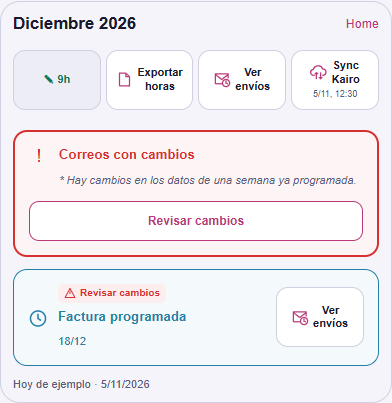
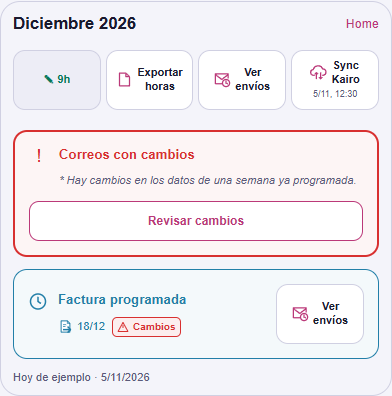
Ajustar el icono y aviso junto a la fecha de factura

diff --git a/docs/visual-map/review/home-proposal-v539.html b/docs/visual-map/review/home-proposal-v539.html
@@ -2,7 +2,7 @@
 <html lang="es" data-theme="light">
 <meta charset="utf-8">
 <meta name="viewport" content="width=device-width,initial-scale=1">
-<title>Home · Propuesta revisada · R3</title>
+<title>Home · Propuesta revisada · R4</title>
 <link rel="stylesheet" href="../../../css/styles.css">
 <style>
 body{margin:0;padding:24px 14px 40px;max-width:none;min-height:100vh}
@@ -45,9 +45,13 @@ body{margin:0;padding:24px 14px 40px;max-width:none;min-height:100vh}
 .draft-pending-note>summary em{text-decoration:underline dotted;text-underline-offset:3px}
 .draft-pending-note>p{margin:2px 0 0;text-align:left;font:inherit}
 .draft-invoice-row{display:grid;grid-template-columns:minmax(0,1fr) auto;align-items:center;gap:10px}
-.draft-invoice-date{color:var(--tone)}
-.draft-invoice-alert{display:inline-flex;align-items:center;gap:4px;padding:3px 6px;margin:0 0 5px 30px;border-radius:5px;background:color-mix(in srgb,var(--c-red) 8%,var(--surface));color:var(--c-red);font-size:.63rem;font-weight:650;line-height:1.25}
+.draft-invoice-date{display:flex;align-items:center;gap:7px;color:var(--tone)}
+.draft-invoice-date-label{display:inline-flex;align-items:center;gap:4px;white-space:nowrap;flex:none}
+.draft-invoice-date-label svg{width:15px;height:15px;flex:none}
+.draft-invoice-alert{display:inline-flex;align-items:center;gap:4px;padding:3px 4px;border:1px solid var(--c-red);border-radius:5px;background:color-mix(in srgb,var(--c-red) 8%,var(--surface));color:var(--c-red);font-size:.63rem;font-weight:650;line-height:1.25;white-space:nowrap;flex:none;animation:draft-invoice-alert-pulse 2s ease-in-out infinite}
 .draft-invoice-alert svg{width:12px;height:12px;flex:none}
+@keyframes draft-invoice-alert-pulse{0%,100%{opacity:1}50%{opacity:.5}}
+@media(prefers-reduced-motion:reduce){.draft-invoice-alert{animation:none}}
 .draft-deadline{font-size:.7rem;line-height:1.5;color:var(--tone);margin:10px 0 0}
 .draft-action{display:block;width:100%;min-height:40px;padding:8px;border-radius:10px;border:1px solid var(--home-tone);background:var(--surface);color:var(--home-tone);font:600 .76rem var(--font);margin-top:12px;cursor:pointer}
 .draft-summary-row{display:grid;grid-template-columns:minmax(75px,1fr) minmax(150px,184px);gap:10px;align-items:center}
@@ -69,7 +73,7 @@ body{margin:0;padding:24px 14px 40px;max-width:none;min-height:100vh}
 </style>
 <main class="proposal">
   <h1>Home · Propuesta para revisar</h1>
-  <p class="proposal-revision">HOME-539-R3 · Alineación, fecha y avisos revisados</p>
+  <p class="proposal-revision">HOME-539-R4 · Icono de factura y aviso junto a la fecha</p>
   <p class="proposal-intro">Dos paneles estables y una acción principal cuando procede. Ejemplos con datos ficticios.</p>
   <div class="proposal-controls">
     <label>Mes
@@ -105,11 +109,11 @@ body{margin:0;padding:24px 14px 40px;max-width:none;min-height:100vh}
       <h2>Cómo quedaría organizado</h2>
       <ol>
         <li><strong>Correos.</strong> «Correos pendientes de programar», «Correos al día» o «Correos con cambios». El contador breve se puede desplegar para consultar el alcance.</li>
-        <li><strong>Factura.</strong> Reloj azul y fecha para la programada; check verde y fecha para la enviada. El plazo pendiente se expresa en días. Cuando falten requisitos, aparecen numerados y subrayados.</li>
+        <li><strong>Factura.</strong> Reloj azul para la programada y check verde para la enviada. Junto a la fecha aparece el icono de factura con el color del panel. El plazo pendiente se expresa en días. Cuando falten requisitos, aparecen numerados y subrayados.</li>
         <li><strong>Alineación.</strong> Los dos títulos comparten el mismo margen y la misma columna de icono.</li>
         <li><strong>Última sincronización.</strong> La fecha queda en Sync Kairo. Los paneles muestran los estados guardados.</li>
         <li><strong>Botones.</strong> Fondo blanco, iconos y texto con el acento rosa de Home. El mismo formato para exportar, consultar, sincronizar y enviar la factura.</li>
-        <li><strong>Dos niveles de alerta.</strong> Rosa de Home con fondo suave y borde marcado para pendientes. Rojo más intenso si quedan menos de siete días o se requiere revisar una programación. La factura programada conserva su panel azul y añade un aviso rojo sobre el título cuando hay cambios en los correos.</li>
+        <li><strong>Dos niveles de alerta.</strong> Rosa de Home con fondo suave y borde marcado para pendientes. Rojo más intenso si quedan menos de siete días o se requiere revisar una programación. La factura programada conserva su panel azul y añade un aviso con borde rojo y parpadeo a la derecha de la fecha cuando hay cambios en los correos.</li>
       </ol>
       <p>Tras revisar la propuesta, el modelo de estados y los mensajes se unificarían en Home y se comprobarían los meses actuales, futuros y los cambios de datos.</p>
     </aside>
@@ -154,9 +158,9 @@ function renderDraft(){
   if(['scheduled','offline','sent','changed'].includes(scenario)){
     const sent=scenario==='sent';
     const invoiceTone=sent?'complete':'scheduled';
-    const warning=changed?'<span class="draft-invoice-alert" title="Hay cambios en los días de una semana ya programada."><svg viewBox="0 0 24 24" fill="none" stroke="currentColor" stroke-width="2" stroke-linecap="round" stroke-linejoin="round" aria-hidden="true"><path d="M12 3 2 21h20Z M12 9v5 M12 17v.1"/></svg>Revisar cambios</span>':'';
-    const date='<p class="draft-note draft-invoice-date"><time datetime="2026-'+month+'-'+(month===12?'18':'20')+'">'+(month===12?'18/12':'20/11')+'</time></p>';
-    invoice='<section class="draft-panel '+invoiceTone+'"><div class="draft-invoice-row"><div>'+warning+status(sent?'✓':clockIcon,sent?'Factura enviada':'Factura programada',date)+'</div>'+viewButton()+'</div></section>';
+    const warning=changed?'<span class="draft-invoice-alert" title="Revisar cambios en los días de una semana ya programada."><svg viewBox="0 0 24 24" fill="none" stroke="currentColor" stroke-width="2" stroke-linecap="round" stroke-linejoin="round" aria-hidden="true"><path d="M12 3 2 21h20Z M12 9v5 M12 17v.1"/></svg>Cambios</span>':'';
+    const date='<p class="draft-note draft-invoice-date"><span class="draft-invoice-date-label">'+invoiceIcon+'<time datetime="2026-'+month+'-'+(month===12?'18':'20')+'">'+(month===12?'18/12':'20/11')+'</time></span>'+warning+'</p>';
+    invoice='<section class="draft-panel '+invoiceTone+'"><div class="draft-invoice-row">'+status(sent?'✓':clockIcon,sent?'Factura enviada':'Factura programada',date)+viewButton()+'</div></section>';
   }else{
     const blocked=pending||scenario==='previous';
     const note=blocked?'<div class="draft-note draft-rules"><em>* Se requiere tener los correos del mes programados</em><span'+(scenario==='previous'?' class="draft-rule-done"':'')+'><em><strong>(1) <u>Los envíos de horas de este mes.</u>'+(scenario==='previous'?' ✓':'')+'</strong></em></span><span><em><strong>(2) <u>El envío de la factura del mes anterior.</u></strong></em></span></div>':'';
